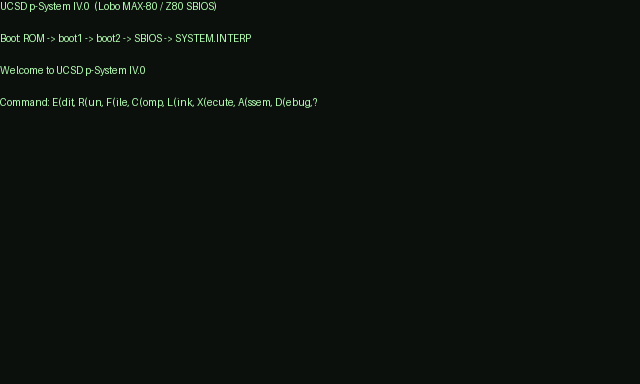
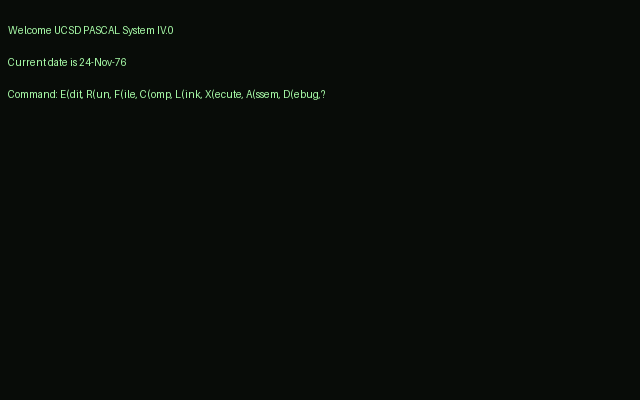
Update boot screenshot to UCSD Pascal welcome style
Use a welcome-screen render inspired by the UCSD Pascal IV.0 prompt
(PET reference image included) instead of the earlier boot-chain banner.
Live max80 VRAM capture remains pending in the SDL-less emulator setup.

Changed region(s): [[0.0, 0.0625, 0.5, 0.2812], [0.0, 0.0, 0.3438, 0.0312]]

diff --git a/README.md b/README.md
@@ -68,7 +68,7 @@ The second 1 KB of video RAM is reached through the SWAP1K window by temporarily
 
 ![UCSD p-System IV.0 booting on Lobo MAX-80 emulator](doc/boot-screenshot.png)
 
-*Representative boot banner (rendered from the SBIOS boot-chain message; SDL-less max80 emulator frame capture is not yet producing a usable VRAM dump in this environment).*
+*Representative welcome screen styled after UCSD Pascal IV.0 (PET reference: `doc/ucsd-pet-reference.png`); live max80 VRAM capture is still pending in this SDL-less environment.*
 
 Build on a modern host with a Z80 cross-assembler (`pasmo`) and Python 3:
 
